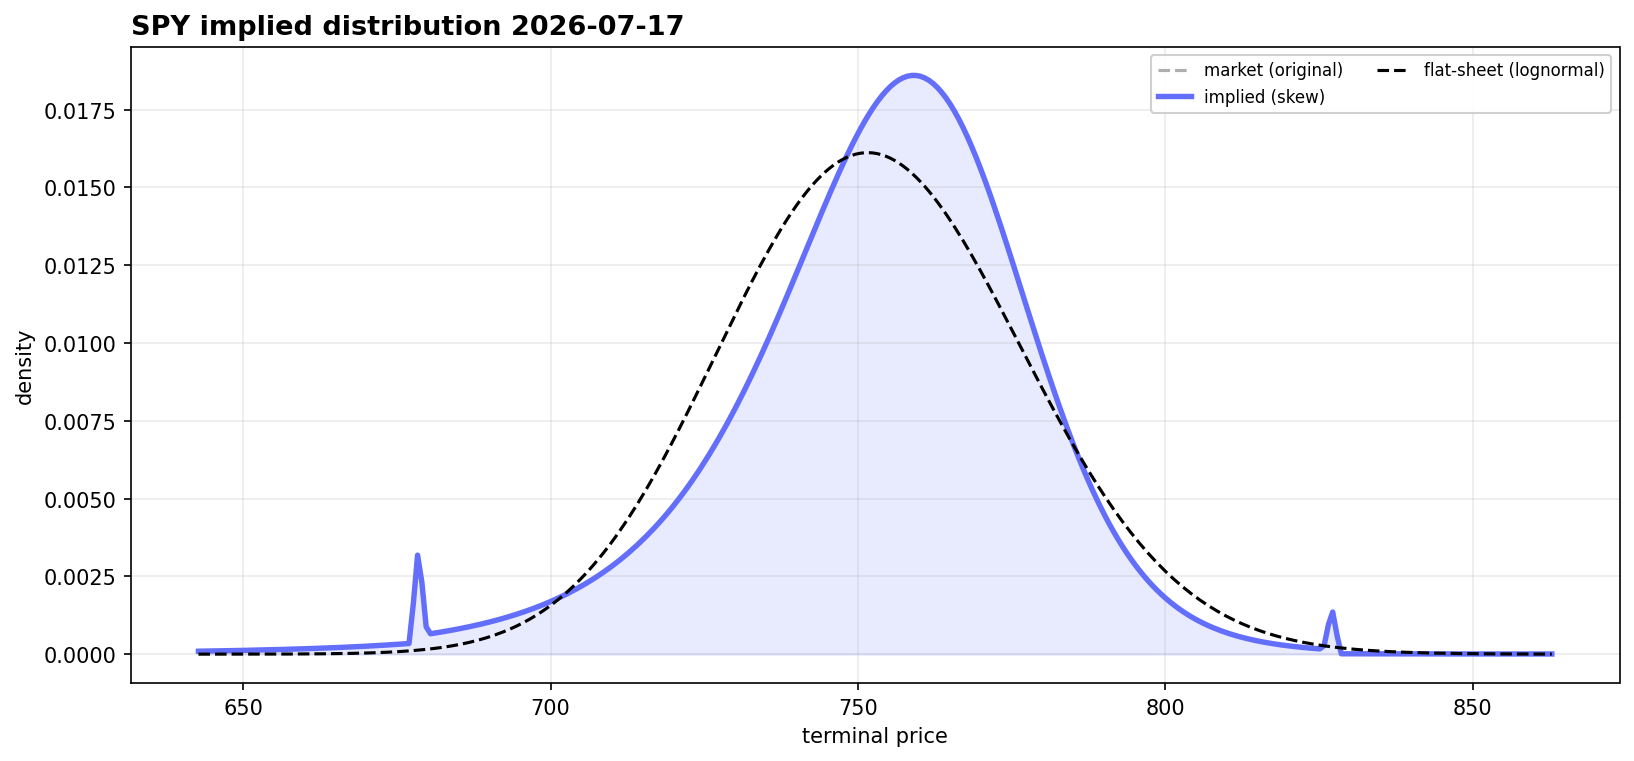
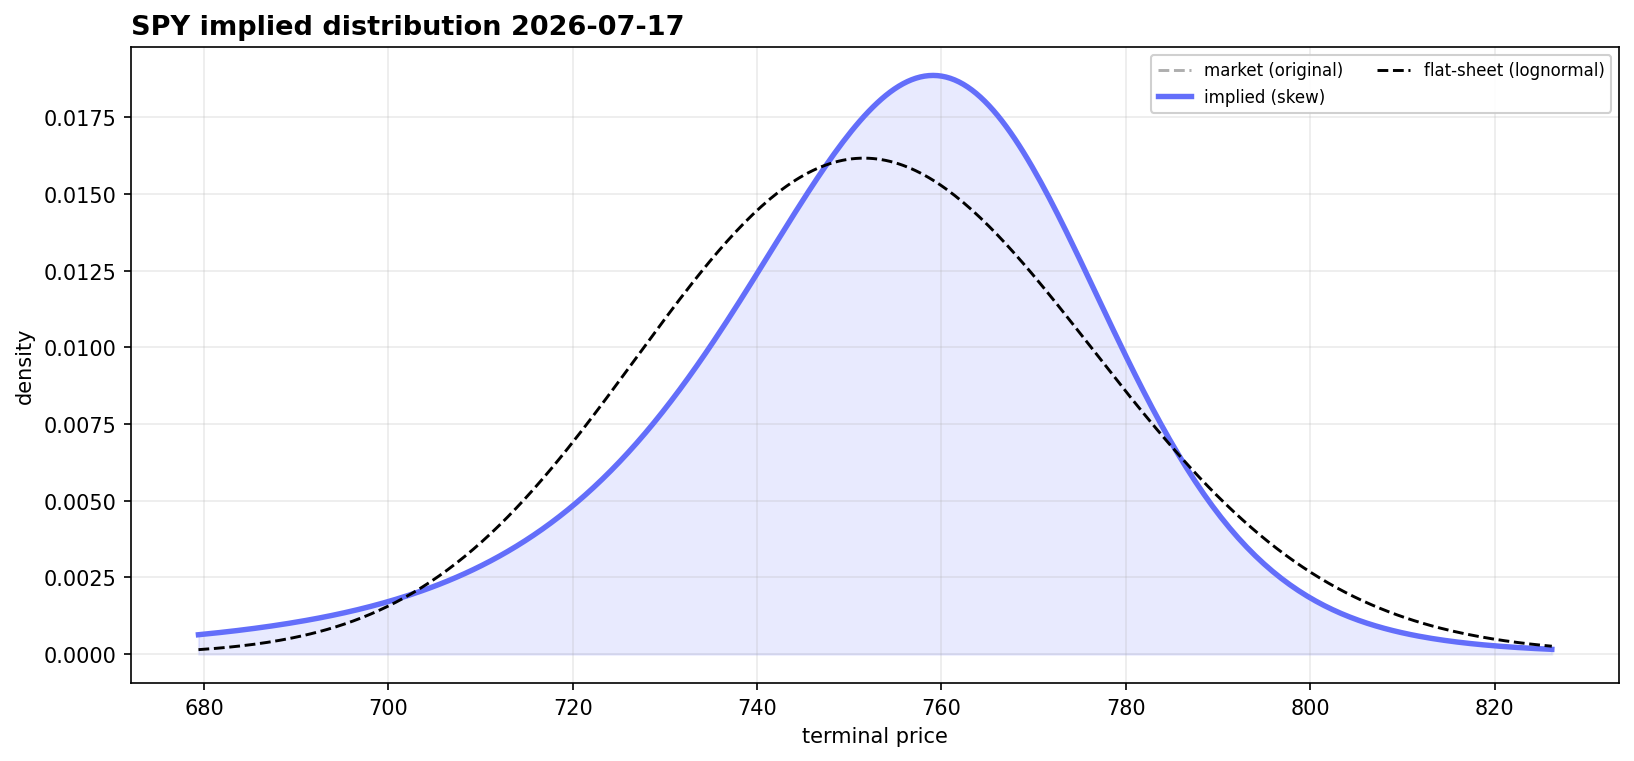
demo: reproduce a real SPY run (SVI smile); add Vol-history (IV vs realized) section

diff --git a/skewlab/charts/distribution.py b/skewlab/charts/distribution.py
@@ -1,6 +1,8 @@
 """skewlab.charts.distribution — Breeden-Litzenberger implied density vs flat-sheet."""
 from __future__ import annotations
 
+import dataclasses
+
 import numpy as np
 import plotly.graph_objects as go
 
@@ -8,8 +10,13 @@ from .. import model, theme
 
 
 def make(snap, cs, title_suffix=""):
-    fine = snap.fine_strikes(cs.wings_on)
-    calls_skew = model.bs_call_vec(fine, snap.curve_vol(fine, cs), snap.spot, snap.t, snap.r, snap.q)
+    # Density is computed from the SMOOTH SVI fit (wings off), regardless of the skew-curve
+    # wing display. The linear tail extrapolation is a display/pricing convenience; its slope
+    # kink at the grid ends would otherwise inject non-physical spikes into d2C/dK2 (and hence
+    # the risk-neutral density). The fitted smile is the right source for the implied measure.
+    cs_smooth = dataclasses.replace(cs, wings_on=False)
+    fine = snap.fine_strikes(False)
+    calls_skew = model.bs_call_vec(fine, snap.curve_vol(fine, cs_smooth), snap.spot, snap.t, snap.r, snap.q)
     calls_flat = model.bs_call_vec(fine, np.full_like(fine, cs.atf), snap.spot, snap.t, snap.r, snap.q)
     x_pdf = fine[2:-2]
     pdf_skew = model.implied_pdf(fine, calls_skew, snap.r, snap.t)[2:-2]

diff --git a/README.md b/README.md
@@ -18,9 +18,9 @@ fit with a steep put wing and ATF ≈ 13%, plus previous-day and term-structure 
 
 ![SPY implied risk-neutral density (Breeden–Litzenberger)](docs/implied_density_demo.png)
 
-*Risk-neutral density recovered from the fitted call curve via Breeden–Litzenberger, vs a flat
-log-normal sheet — left-skewed with a fatter downside tail. It stays non-negative everywhere,
-i.e. the smile passes the butterfly no-arbitrage check.*
+*Risk-neutral density from the fitted SVI smile via Breeden–Litzenberger, vs a flat log-normal
+sheet — left-skewed, mode above the forward, fatter downside tail. Non-negative everywhere, so
+the smile passes the butterfly no-arbitrage check.*
 
 ![SPY implied-vol history vs composite realized](docs/vol_history_demo.png)
 